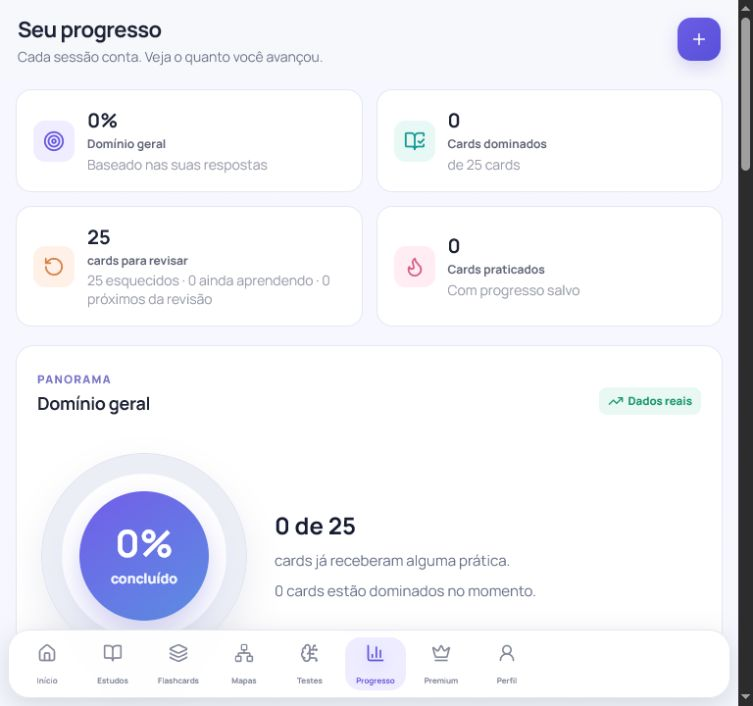
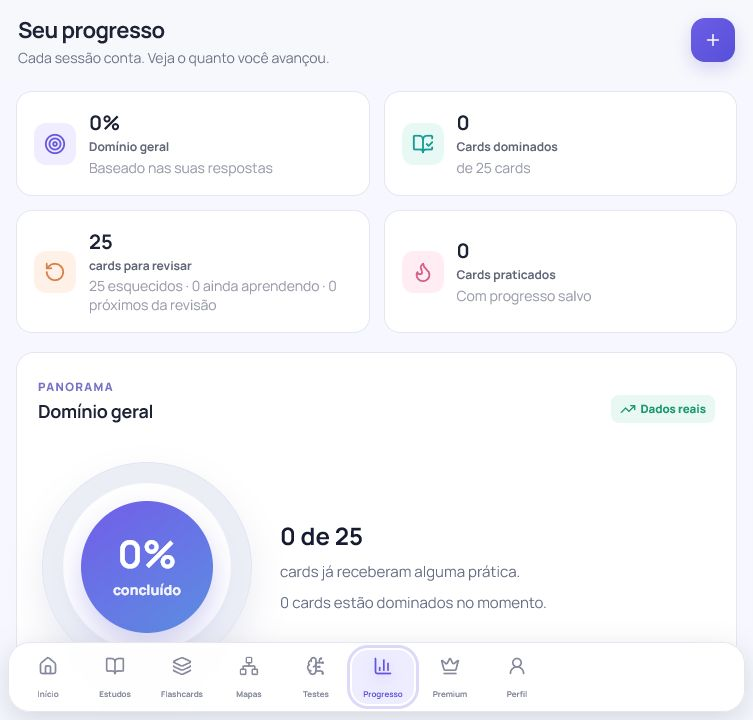
Corrige enquadramento do painel real no hero

diff --git a/components/Hero.tsx b/components/Hero.tsx
@@ -115,16 +115,16 @@ export default function Hero() {
             className="relative flex w-full min-w-0 items-center justify-center lg:col-span-7"
           >
             <div className="pointer-events-none absolute inset-x-8 top-1/2 h-3/4 -translate-y-1/2 rounded-full bg-blue-500/15 blur-3xl" />
-            <div className="relative aspect-[4/3] w-full overflow-hidden rounded-[24px] border border-blue-100 bg-white p-2 shadow-[0_32px_90px_-34px_rgba(37,99,235,0.5)] sm:rounded-[30px] sm:p-3">
+            <div className="relative w-full max-w-[590px] overflow-hidden rounded-[24px] border border-blue-100 bg-white p-2 shadow-[0_32px_90px_-34px_rgba(37,99,235,0.5)] sm:rounded-[30px] sm:p-3 lg:ml-auto">
               <Image
                 src="/hero-studyflow-dashboard-real.jpg"
                 alt="Painel real de progresso do StudyFlow"
-                width={768}
+                width={753}
                 height={720}
                 priority
                 sizes="(min-width: 1024px) 58vw, (min-width: 640px) 90vw, 100vw"
                 quality={90}
-                className="h-full w-full origin-top-left scale-[1.02] rounded-[18px] object-cover object-top sm:rounded-[22px]"
+                className="h-auto w-full rounded-[18px] object-contain sm:rounded-[22px]"
               />
             </div>
           </motion.figure>
